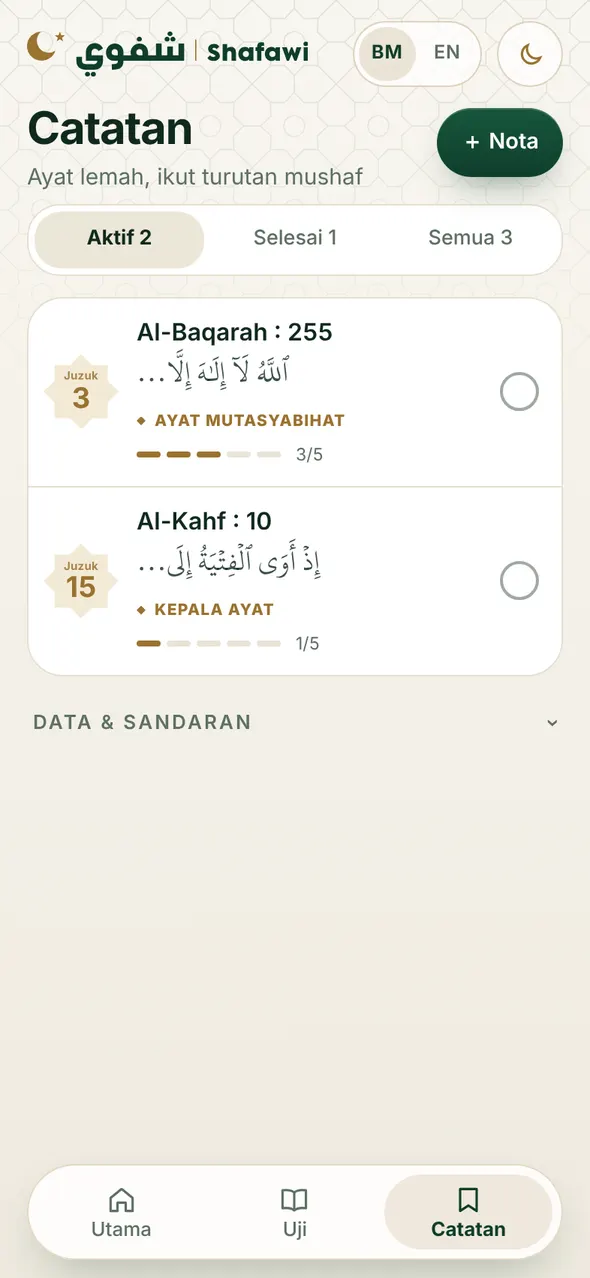
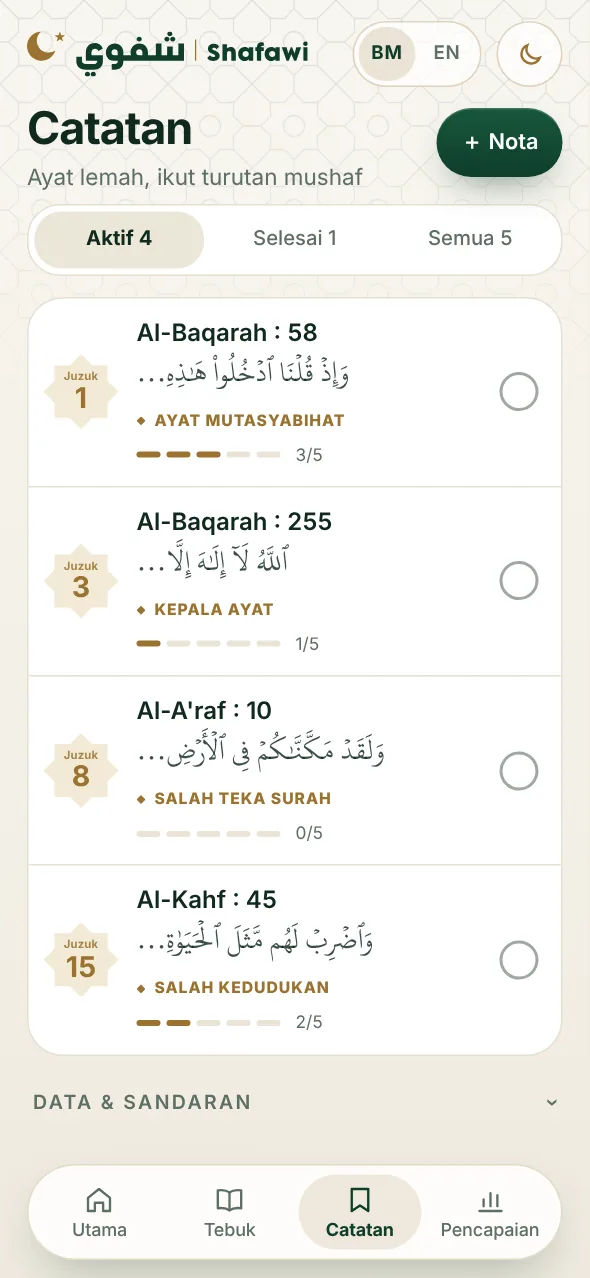
Kemas kini halaman pengenalan: skor, Pencapaian, gambar skrin terkini
- Bahagian baharu Skor & Pencapaian (gelaran Mumtaz hingga Maqbul, graf 7 hari)
- Teks langkah dikemas kini (+1 markah, nota cara kedudukan dinilai)
- Kategori Salah teka surah / Salah kedudukan, tarikh Hijrah JAKIM
- Semua gambar skrin diambil semula dari app terkini (4 tab)

Claude-Session: https://claude.ai/code/session_017x16e1D4jJG8ToqADSe8sT

diff --git a/pengenalan/index.html b/pengenalan/index.html
@@ -93,6 +93,7 @@ h3{font-size:clamp(20px,2vw,24px);line-height:1.12;letter-spacing:-.015em;margin
 .three figcaption span{display:block;font-weight:400;color:var(--mut);font-size:14px}
 .cats{display:flex;flex-wrap:wrap;gap:8px;margin:20px 0}
 .cats span{padding:7px 13px;border-radius:999px;background:#f3ead6;color:var(--gold);font-weight:650;font-size:14px}
+.cats span.auto{background:#e3efe6;color:var(--hi)}
 .reps{display:flex;align-items:center;gap:12px;margin-top:14px;color:var(--mut);font-size:15px}
 .reps i{display:flex;gap:5px}.reps u{width:22px;height:6px;border-radius:3px;background:var(--gold)}.reps u.o{background:var(--line)}
 .note{font-size:13px;color:var(--mut);margin-top:18px}
@@ -153,7 +154,7 @@ h3{font-size:clamp(20px,2vw,24px);line-height:1.12;letter-spacing:-.015em;margin
    <img class="icon" src="img/icon.png" alt="Ikon Shafawi">
    
    <h1>Uji <em>hafazan Quran</em> terus dari telefon</h1>
-   <p class="lead">Shafawi memaparkan satu ayat. Anda sambung bacaan dari ingatan, teka surahnya, kemudian teka di mana ayat itu terletak dalam Mushaf Madinah. Ayat yang selalu tersangkut dicatat untuk diulang.</p>
+   <p class="lead">Shafawi memaparkan satu ayat. Anda sambung bacaan dari ingatan, teka surahnya, kemudian teka di mana ayat itu terletak dalam Mushaf Madinah. Setiap jawapan diberi markah, dan ayat yang tersilap boleh terus disimpan ke Catatan untuk diulang.</p>
    <div class="cta"><a class="link" href="../"><svg viewBox="0 0 24 24" fill="none" stroke="currentColor" stroke-width="2.2" stroke-linecap="round"><rect x="5" y="11" width="14" height="10" rx="2"/><path d="M8 11V8a4 4 0 018 0v3"/></svg>zulfikarair5-ops.github.io/Shafawi</a><span class="say">Say it. Prove it. Keep it.</span></div>
   </div>
   <div class="stage">
@@ -168,8 +169,8 @@ h3{font-size:clamp(20px,2vw,24px);line-height:1.12;letter-spacing:-.015em;margin
  <div class="in stats">
   <div class="st"><b>604</b><span>muka surat Mushaf Madinah, 15 baris</span></div>
   <div class="st"><b>6,236</b><span>ayat, riwayat Hafs, Rasm Uthmani</span></div>
+  <div class="st"><b>2</b><span>markah setiap soalan: surah dan kedudukan</span></div>
   <div class="st"><b>7</b><span>cara memilih ayat soalan</span></div>
-  <div class="st"><b>2</b><span>bahasa: Melayu dan English</span></div>
   <div class="st"><b>0</b><span>akaun. Berfungsi tanpa internet selepas dibuka sekali</span></div>
  </div>
 </section>
@@ -180,8 +181,8 @@ h3{font-size:clamp(20px,2vw,24px);line-height:1.12;letter-spacing:-.015em;margin
   <h2>Uji hafazan, <em>kemudian ulang</em> yang lemah</h2>
   <p class="lead">Shafawi dibina di atas dua ciri yang saling melengkapi.</p>
   <div class="feat">
-   <a class="fc g" href="#uji"><span class="fi"><svg viewBox="0 0 24 24" fill="none" stroke="currentColor" stroke-width="2" stroke-linecap="round" stroke-linejoin="round"><path d="M12 7c-2-1.6-5-2-8-1.5v12c3-.5 6 0 8 1.5 2-1.5 5-2 8-1.5v-12c-3-.5-6-.1-8 1.5zM12 7v12"/></svg></span><div class="lbl">Ciri utama 1</div><h3>Tebuk Ayat</h3><p>App papar satu ayat. Anda sambung dari ingatan, kemudian buktikan anda tahu di mana ia berada.</p><ul><li>7 mod: 30 juzuk, juzuk, surah, julat muka surat dan lain-lain</li><li>Kenal pasti surah daripada 4 pilihan</li><li>Teka kedudukan ayat pada Mushaf Madinah, lihat muka surat penuh</li></ul><span class="more">Lihat 4 langkahnya &darr;</span></a>
-   <a class="fc" href="#catatan"><span class="fi"><svg viewBox="0 0 24 24" fill="none" stroke="currentColor" stroke-width="2" stroke-linecap="round" stroke-linejoin="round"><path d="M4 20h4L19 9l-4-4L4 16zM14 6l4 4"/></svg></span><div class="lbl">Ciri utama 2</div><h3>Catatan <em>Muraja'ah</em></h3><p>Ayat yang tersangkut dicatat supaya diulang sehingga benar-benar lekat.</p><ul><li>4 kategori: Ayat Mutasyabihat, Perkataan, Kepala ayat, Kepala muka surat</li><li>5 kotak ulangan, cukup 5 nota ditanda selesai</li><li>Mod soalan "Dari nota" menguji ayat sebelum setiap ayat lemah</li></ul><span class="more">Lihat Catatan &darr;</span></a>
+   <a class="fc g" href="#uji"><span class="fi"><svg viewBox="0 0 24 24" fill="none" stroke="currentColor" stroke-width="2" stroke-linecap="round" stroke-linejoin="round"><path d="M12 7c-2-1.6-5-2-8-1.5v12c3-.5 6 0 8 1.5 2-1.5 5-2 8-1.5v-12c-3-.5-6-.1-8 1.5zM12 7v12"/></svg></span><div class="lbl">Ciri utama 1</div><h3>Tebuk Ayat</h3><p>App papar satu ayat. Anda sambung dari ingatan, kemudian buktikan anda tahu di mana ia berada.</p><ul><li>7 mod: 30 juzuk, juzuk, surah, julat muka surat dan lain-lain</li><li>Kenal pasti surah daripada 4 pilihan</li><li>Teka kedudukan ayat pada Mushaf Madinah, lihat muka surat penuh</li><li>Skor setiap sesi, dengan gelaran dan graf dalam tab Pencapaian</li></ul><span class="more">Lihat 4 langkahnya &darr;</span></a>
+   <a class="fc" href="#catatan"><span class="fi"><svg viewBox="0 0 24 24" fill="none" stroke="currentColor" stroke-width="2" stroke-linecap="round" stroke-linejoin="round"><path d="M4 20h4L19 9l-4-4L4 16zM14 6l4 4"/></svg></span><div class="lbl">Ciri utama 2</div><h3>Catatan <em>Muraja'ah</em></h3><p>Ayat yang tersangkut dicatat supaya diulang sehingga benar-benar lekat.</p><ul><li>4 kategori: Ayat Mutasyabihat, Perkataan, Kepala ayat, Kepala muka surat</li><li>Ayat yang salah dalam sesi boleh disimpan terus dengan satu tekan</li><li>5 kotak ulangan, cukup 5 ulangan nota ditanda selesai</li><li>Mod soalan "Dari nota" menguji ayat sebelum setiap ayat lemah</li></ul><span class="more">Lihat Catatan &darr;</span></a>
   </div>
  </div>
 </section>
@@ -193,9 +194,30 @@ h3{font-size:clamp(20px,2vw,24px);line-height:1.12;letter-spacing:-.015em;margin
   <p class="lead">Setiap soalan menguji bacaan, surah dan letak ayat pada muka surat.</p>
   <div class="flow">
    <div class="step"><div class="ph"><div class="scr"><div class="sb"><span>9:41</span><i><u></u></i></div><img src="img/03-soalan-light.webp" alt="Skrin soalan"></div></div><div><div class="lbl"><span class="pill">1</span>Langkah 1</div><h3>Sambung <em>ayat</em></h3><p>Baca sambungannya dari ingatan. Buka ayat seterusnya atau sebelumnya untuk menyemak.</p></div></div>
-   <div class="step"><div class="ph"><div class="scr"><div class="sb"><span>9:41</span><i><u></u></i></div><img src="img/04-surah-light.webp" alt="Kenal pasti surah"></div></div><div><div class="lbl"><span class="pill">2</span>Langkah 2</div><h3>Kenal pasti <em>surah</em></h3><p>Empat pilihan, tiga daripadanya surah berdekatan supaya benar-benar teruji.</p></div></div>
-   <div class="step"><div class="ph"><div class="scr"><div class="sb"><span>9:41</span><i><u></u></i></div><img src="img/05-teka-light.webp" alt="Kenal pasti kedudukan"></div></div><div><div class="lbl"><span class="pill">3</span>Langkah 3</div><h3>Kenal pasti <em>kedudukan</em></h3><p>Muka kiri atau kanan, atas atau bawah. Tekan tempat ayat itu bermula.</p></div></div>
-   <div class="step"><div class="ph"><div class="scr"><div class="sb"><span>9:41</span><i><u></u></i></div><img src="img/06-jawapan-light.webp" alt="Skrin jawapan"></div></div><div><div class="lbl"><span class="pill">4</span>Langkah 4</div><h3>Lihat <em>jawapan</em></h3><p>Keputusan kedudukan ayat, dengan muka surat penuh dan ayat soalan berwarna. Selak muka sebelum dan selepas.</p></div></div>
+   <div class="step"><div class="ph"><div class="scr"><div class="sb"><span>9:41</span><i><u></u></i></div><img src="img/04-surah-light.webp" alt="Kenal pasti surah"></div></div><div><div class="lbl"><span class="pill">2</span>Langkah 2</div><h3>Kenal pasti <em>surah</em></h3><p>Empat pilihan, tiga daripadanya surah berdekatan supaya benar-benar teruji. Betul, dapat 1 markah.</p></div></div>
+   <div class="step"><div class="ph"><div class="scr"><div class="sb"><span>9:41</span><i><u></u></i></div><img src="img/05-teka-light.webp" alt="Kenal pasti kedudukan"></div></div><div><div class="lbl"><span class="pill">3</span>Langkah 3</div><h3>Kenal pasti <em>kedudukan</em></h3><p>Muka kiri atau kanan, atas atau bawah. App menilai ikut baris perkataan pertama ayat itu.</p></div></div>
+   <div class="step"><div class="ph"><div class="scr"><div class="sb"><span>9:41</span><i><u></u></i></div><img src="img/06-jawapan-light.webp" alt="Skrin jawapan"></div></div><div><div class="lbl"><span class="pill">4</span>Langkah 4</div><h3>Lihat <em>jawapan</em></h3><p>Keputusan kedudukan dan 1 markah lagi, dengan muka surat penuh dan ayat soalan berwarna emas.</p></div></div>
+  </div>
+ </div>
+</section>
+
+<section class="band" id="skor">
+ <div class="in split">
+  <div>
+   <div class="lbl">Skor &middot; Pencapaian</div>
+   <h2>Setiap sesi ada <em>markah</em></h2>
+   <p class="lead">Skor berjalan di penjuru soalan. Tekan <b>Tamat sesi</b> untuk lihat ringkasan: peratus, gelaran, berapa surah dan kedudukan yang betul, serta senarai ayat untuk diulang.</p>
+   <ol class="list">
+    <li><span class="pill" style="background:var(--gold)">1</span><div><b>Mumtaz</b><span>85 hingga 100%</span></div></li>
+    <li><span class="pill" style="background:var(--gold)">2</span><div><b>Jayyid Jiddan</b><span>70 hingga 84%</span></div></li>
+    <li><span class="pill" style="background:var(--gold)">3</span><div><b>Jayyid</b><span>50 hingga 69%</span></div></li>
+    <li><span class="pill" style="background:var(--gold)">4</span><div><b>Maqbul</b><span>Bawah 50%. Teruskan usaha</span></div></li>
+   </ol>
+   <p class="lead" style="margin-top:20px">Tab <b>Pencapaian</b> menunjukkan graf 7 hari, purata skor dan setiap sesi lepas mengikut hari, walaupun beberapa sesi dalam sehari.</p>
+  </div>
+  <div class="pics two">
+   <div class="ph"><div class="scr"><div class="sb"><span>9:41</span><i><u></u></i></div><img src="img/10-ringkasan-light.webp" alt="Ringkasan Tamat sesi"></div></div>
+   <div class="ph"><div class="scr"><div class="sb"><span>9:41</span><i><u></u></i></div><img src="img/11-pencapaian-light.webp" alt="Tab Pencapaian"></div></div>
   </div>
  </div>
 </section>
@@ -206,7 +228,7 @@ h3{font-size:clamp(20px,2vw,24px);line-height:1.12;letter-spacing:-.015em;margin
   <div>
    <div class="lbl">Pilih mod</div>
    <h2>Tujuh cara <em>memilih ayat</em></h2>
-   <p class="lead">Uji seluruh Quran, atau fokus pada bahagian yang sedang diulang.</p>
+   <p class="lead">Uji seluruh Quran, atau fokus pada bahagian yang sedang diulang. Setiap soalan 2 markah: surah betul 1 markah, kedudukan betul 1 markah.</p>
    <ol class="list">
     <li><span class="pill">1</span><div><b>30 juzuk</b><span>Mana-mana ayat dalam Quran</span></div></li>
     <li><span class="pill">2</span><div><b>Juzuk</b><span>Pilih satu juzuk</span></div></li>
@@ -226,7 +248,8 @@ h3{font-size:clamp(20px,2vw,24px);line-height:1.12;letter-spacing:-.015em;margin
    <div class="lbl">Ciri utama 2 &middot; Catatan</div>
    <h2>Catatan <em>Muraja'ah</em></h2>
    <p class="lead">Ayat yang tersangkut tidak dilupakan. Pilih surah dan ayat, teks ayat terus dipaparkan, kemudian pilih kategori dan tulis catatan.</p>
-   <div class="cats"><span>Ayat Mutasyabihat</span><span>Perkataan</span><span>Kepala ayat</span><span>Kepala muka surat</span></div>
+   <div class="cats"><span>Ayat Mutasyabihat</span><span>Perkataan</span><span>Kepala ayat</span><span>Kepala muka surat</span><span class="auto">Salah teka surah</span><span class="auto">Salah kedudukan</span></div>
+   <p class="lead">Dua kategori terakhir diisi sendiri oleh app bila anda simpan ayat yang salah dari sesi Tebuk Ayat.</p>
    <p class="lead">Semua nota tersusun dalam tab <b>Catatan</b> ikut turutan mushaf, dengan penapis Aktif, Selesai dan Semua. Tandakan setiap kali ayat itu diulang.</p>
    <div class="reps"><i><u></u><u></u><u></u><u class="o"></u><u class="o"></u></i>Cukup 5 ulangan, nota ditanda selesai.</div>
    <p class="note">Nota dalam gambar ialah contoh.</p>
@@ -242,7 +265,7 @@ h3{font-size:clamp(20px,2vw,24px);line-height:1.12;letter-spacing:-.015em;margin
  <div class="in" style="text-align:center">
   <div class="lbl" style="justify-content:center">Bahasa dan tema</div>
   <h2>Dua bahasa, <em>siang dan malam</em></h2>
-  <p class="lead" style="margin:0 auto">Tekan BM atau EN untuk tukar bahasa. Mod gelap ikut tetapan telefon, atau tukar sendiri dengan butang bulan.</p>
+  <p class="lead" style="margin:0 auto">Tekan BM atau EN di atas untuk tukar bahasa, termasuk menu bawah: Utama, Tebuk, Catatan dan Pencapaian. Mod gelap ikut tetapan telefon, atau tukar sendiri dengan butang bulan.</p>
   <div class="three">
    <figure><div class="ph"><div class="scr"><div class="sb"><span>9:41</span><i><u></u></i></div><img src="img/01-home-light.webp" alt="Bahasa Melayu, mod cerah"></div></div><figcaption>Bahasa Melayu<span>Zamrud Siang</span></figcaption></figure>
    <figure><div class="ph"><div class="scr"><div class="sb"><span>9:41</span><i><u></u></i></div><img src="img/09-home-en-light.webp" alt="English, mod cerah"></div></div><figcaption>English<span>Zamrud Siang</span></figcaption></figure>
@@ -282,6 +305,8 @@ h3{font-size:clamp(20px,2vw,24px);line-height:1.12;letter-spacing:-.015em;margin
    <div class="ck"><i><svg viewBox="0 0 24 24" fill="none" stroke="currentColor" stroke-width="3" stroke-linecap="round" stroke-linejoin="round"><path d="M5 12.5l4.5 4.5L19 7.5"/></svg></i><div><b>Skrin penuh, buka pantas</b><span>Terbuka tanpa bar pelayar. Ikon beranimasi kira-kira 1 saat, terus ke skrin utama.</span></div></div>
    <div class="ck"><i><svg viewBox="0 0 24 24" fill="none" stroke="currentColor" stroke-width="3" stroke-linecap="round" stroke-linejoin="round"><path d="M5 12.5l4.5 4.5L19 7.5"/></svg></i><div><b>Percuma, tanpa akaun</b><span>Tiada daftar masuk. Catatan disimpan dalam telefon anda.</span></div></div>
    <div class="ck"><i><svg viewBox="0 0 24 24" fill="none" stroke="currentColor" stroke-width="3" stroke-linecap="round" stroke-linejoin="round"><path d="M5 12.5l4.5 4.5L19 7.5"/></svg></i><div><b>Sandaran sendiri</b><span>Eksport nota ke fail dan import semula bila tukar telefon.</span></div></div>
+   <div class="ck"><i><svg viewBox="0 0 24 24" fill="none" stroke="currentColor" stroke-width="3" stroke-linecap="round" stroke-linejoin="round"><path d="M5 12.5l4.5 4.5L19 7.5"/></svg></i><div><b>Tarikh Hijrah ikut JAKIM</b><span>Skrin utama memaparkan tarikh Hijrah mengikut takwim rasmi Malaysia.</span></div></div>
+   <div class="ck"><i><svg viewBox="0 0 24 24" fill="none" stroke="currentColor" stroke-width="3" stroke-linecap="round" stroke-linejoin="round"><path d="M5 12.5l4.5 4.5L19 7.5"/></svg></i><div><b>Skor kekal dalam telefon</b><span>Setiap sesi direkod dalam tab Pencapaian, tanpa perlu daftar akaun.</span></div></div>
    <div class="ck"><i><svg viewBox="0 0 24 24" fill="none" stroke="currentColor" stroke-width="3" stroke-linecap="round" stroke-linejoin="round"><path d="M5 12.5l4.5 4.5L19 7.5"/></svg></i><div><b>Teks mushaf yang sahih</b><span>Teks dan susun atur oleh KFGQPC (Kompleks Percetakan Mushaf Raja Fahd), riwayat Hafs.</span></div></div>
   </div>
 
